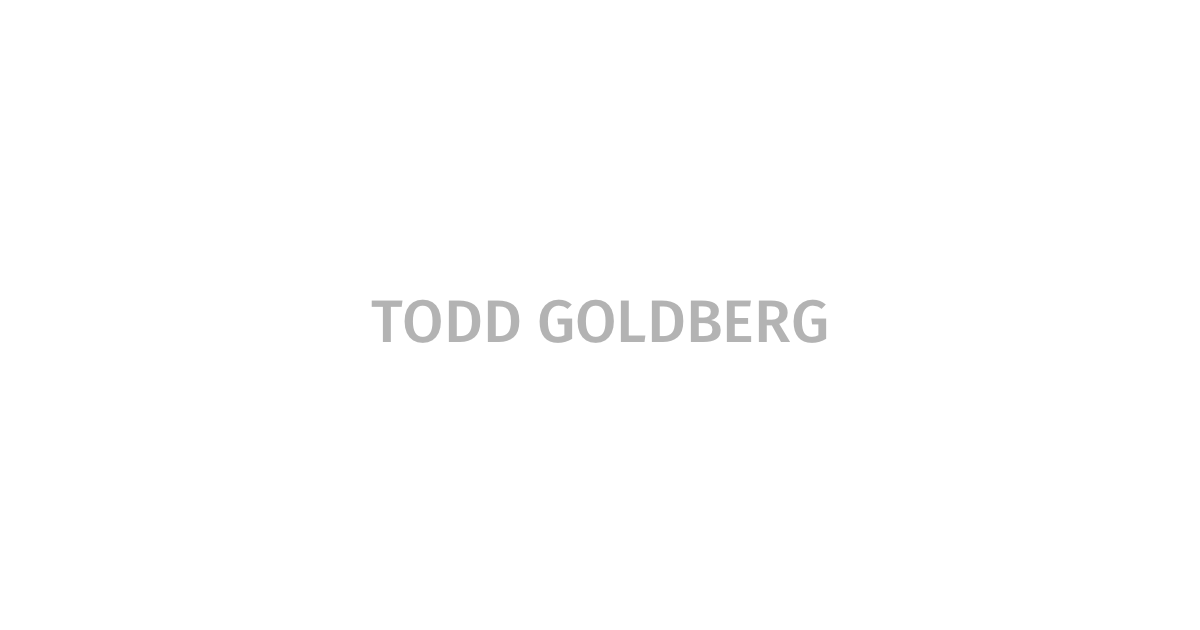
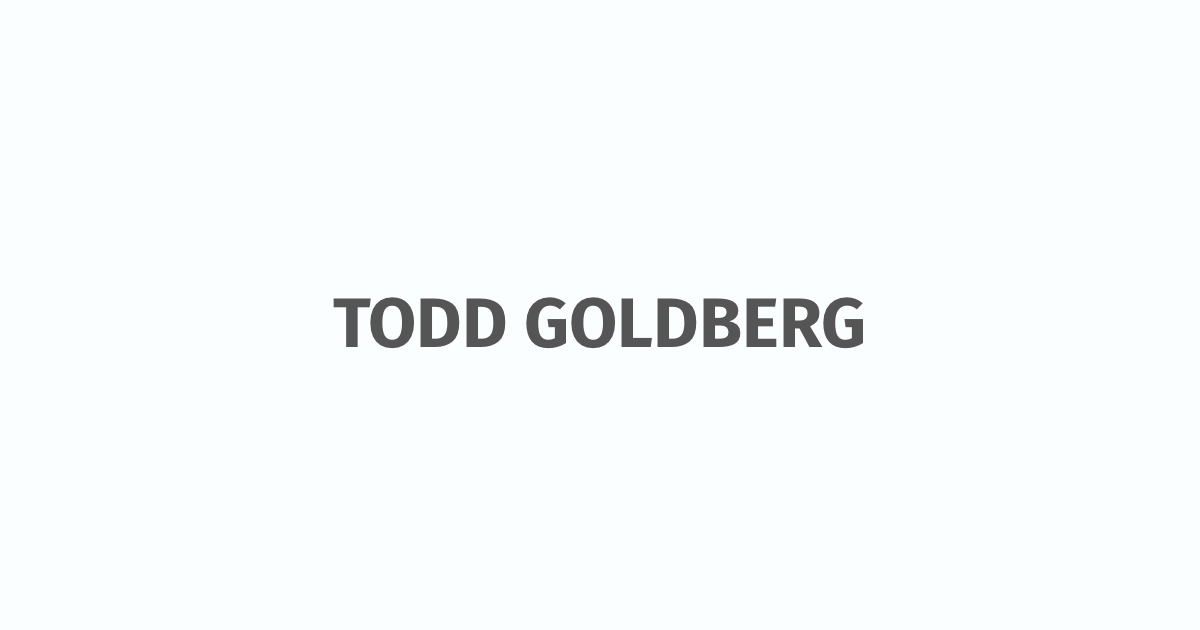
Open graph updates

Changed region(s): [[0.2775, 0.4524, 0.74, 0.573]]

diff --git a/posts/helpful-startup-resources.html b/posts/helpful-startup-resources.html
@@ -15,24 +15,24 @@
     <meta charset="utf-8"> 
     <meta name="viewport" content="width=device-width, initial-scale=1">
     <meta name="keywords" content="todd goldberg, y combinator alumni, eventjoy, mailjoy, cryptogoods">
-    <meta name="description" content="Tech entrepreneur. Early-stage investor. Y Combinator alum.">
+    <meta name="description" content="A maintained list of high quality startup resources that I've found helpful">
     
-    <title>Helpful startup resources</title>
+    <title>Helpful startup resources - Todd Goldberg</title>
 
 
     <!-- Opengraph -->
-    <meta property="og:title" content="Helpful startup resources" />
+    <meta property="og:title" content="Helpful startup resources - Todd Goldberg" />
     <meta property="og:type" content="article" />
     <meta property="og:site_name" content="Todd Goldberg" />
     <meta property="og:url" content="http://toddgoldberg.com/posts/helpful-startup-resources.html" />
-    <meta property="og:image" content="http://toddgoldberg.com/images/opengraph.png" /> 
-    <meta property="og:description" content="Description" />
+    <meta property="og:image" content="http://toddgoldberg.com/posts/images/helpful-startup-resources.png" /> 
+    <meta property="og:description" content="A maintained list of high quality startup resources that I've found helpful" />
 
     <!-- Twitter cards -->
     <meta name="twitter:card" content="summary_large_image">
-    <meta name="twitter:title" content="Favorite startup resources">
-    <meta name="twitter:description" content="Tech entrepreneur & investor; Y Combinator Alum">
-    <meta name="twitter:image" content="http://toddgoldberg.com/images/opengraph.png">
+    <meta name="twitter:title" content="Helpful startup resources - Todd Goldberg">
+    <meta name="twitter:description" content="A maintained list of high quality startup resources that I've found helpful">
+    <meta name="twitter:image" content="http://toddgoldberg.com/posts/images/helpful-startup-resources.png">
     <meta name="twitter:domain" content="toddgoldberg.com">
     <meta name="twitter:creator" content="@toddg777" />
 
@@ -100,9 +100,9 @@
 
         <div id="nav" class="container">
             <div class="row">
-                <div class="col-xs-7 col-md-4 logo"><a href="../index.html">Todd Goldberg</a></div>
-                <div class="col-xs-5 col-md-8 links"> 
-                    <div>
+                    <div class="col-xs-6 logo"><a href="../index.html">Todd Goldberg</a></div>
+                    <div class="col-xs-6 links"> 
+                        <div>
                       <a href="../about.html">About</a>
                       <div class="navlinks-mobilevisible">
                         <a href="../work.html">Work</a>
@@ -156,6 +156,7 @@
                 <li><a href="http://www.paulgraham.com/startupideas.html" target="_blank">Startup ideas</a></li>
                 <li><a href="http://cdixon.org/2013/08/04/the-idea-maze/" target="_blank">The idea maze</a></li>
                 <li><a href="http://www.paulgraham.com/schlep.html" target="_blank">Schlep blindness</a></li>
+                <li><a href="http://blog.eladgil.com/2010/10/benefits-of-thinking-small.html" target="_blank">The benefits of thinking small</a></li>
             </ul>
 
             <h2>Founders</h2>
